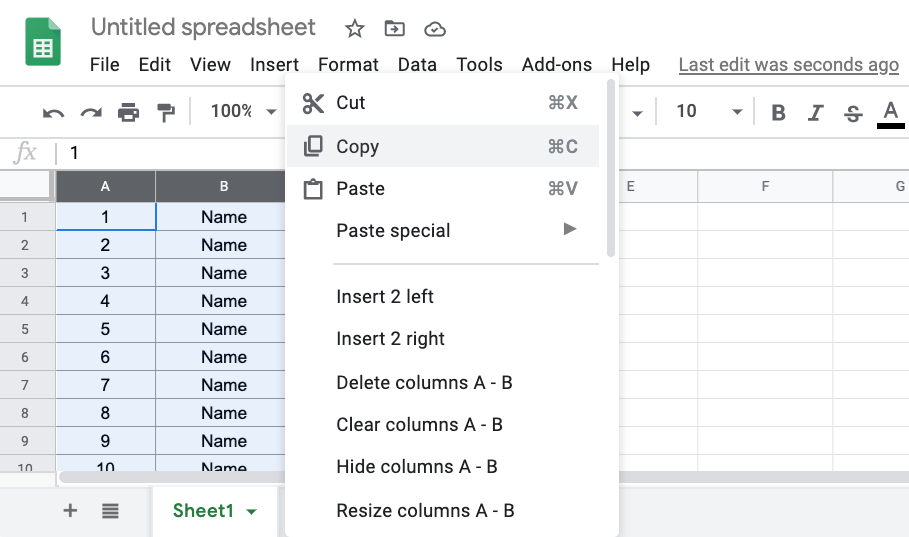
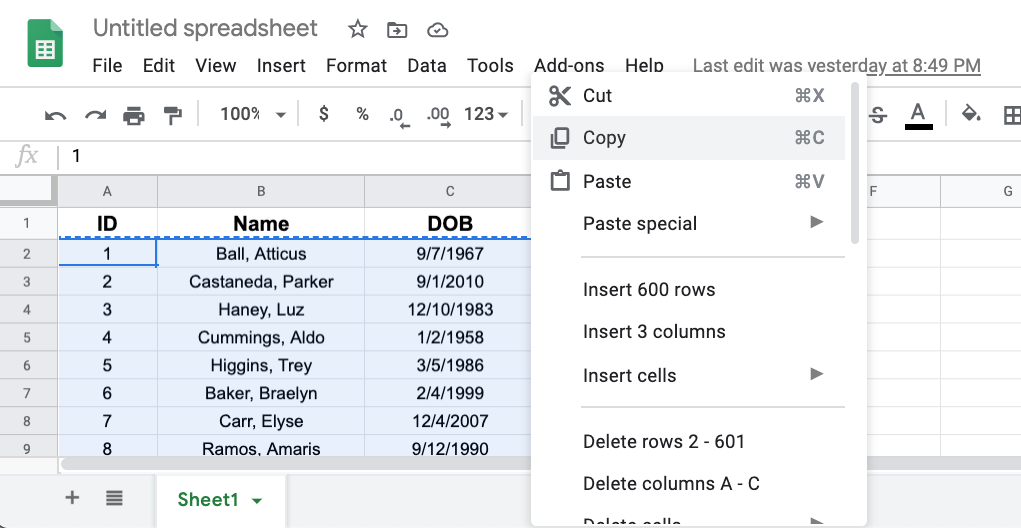
Update image and refactor

diff --git a/src/pages/NewList/index.js b/src/pages/NewList/index.js
@@ -38,7 +38,7 @@ const NewList = ({ firebase, user }) => {
           <p className={classes.titleInfo}>Adding a new list will remove the previous one.</p>
         </div>
         <p className={classes.heading}>Step 1:</p>
-        <p className={classes.info}>Highlight the numbers and names column then copy.</p>
+        <p className={classes.info}>Highlight the IDs, names, and DOB then copy.</p>
         <div className={classes.imgContainer}>
           <img className={classes.img} src='/images/step1.png' alt='coping the numbers column and names column'/>
         </div>
@@ -46,7 +46,7 @@ const NewList = ({ firebase, user }) => {
         <p className={classes.info}>Paste the content below.</p>
         <div className={classes.textAreaContainer}>
           <textarea className={classes.textArea} placeholder="Paste content here." onChange={e => setUserInput(e.target.value)} value={userInput}></textarea>
-          <p className={classes.footer}>Don't modify it after pasting it. It's ok if there is extra space.</p>
+          <p className={classes.footer}>Don't modify it after pasting it.</p>
         </div>
         <p className={classes.heading}>Step 3:</p>
         <p className={classes.info}>Click the button below to add the new list.</p>

diff --git a/src/pages/Login/styles.js b/src/pages/Login/styles.js
@@ -17,7 +17,7 @@ const useStyles = createUseStyles( theme => ({
     textAlign: 'center',
     margin: '0 0 20px 0',
     textTransform: 'uppercase',
-    letterSpacing: theme.letterSpacingHeading,
+    letterSpacing: theme.letterSpacingText,
     color: theme.primaryTextColor,
     fontFamily: theme.primaryFontFamily,
     fontSize: '2em',

diff --git a/src/pages/CheckIn/styles.js b/src/pages/CheckIn/styles.js
@@ -7,7 +7,7 @@ const useStyles = createUseStyles( theme => ({
   pageTitle: {
     margin: '0',
     textTransform: 'uppercase',
-    letterSpacing: theme.letterSpacingHeading,
+    letterSpacing: theme.letterSpacingText,
     color: theme.primaryTextColor,
     fontFamily: theme.primaryFontFamily,
     fontSize: '2em',

diff --git a/src/pages/NewList/styles.js b/src/pages/NewList/styles.js
@@ -7,7 +7,7 @@ const useStyles = createUseStyles( theme => ({
   pageTitle: {
     margin: '0',
     textTransform: 'uppercase',
-    letterSpacing: theme.letterSpacingHeading,
+    letterSpacing: theme.letterSpacingText,
     color: theme.primaryTextColor,
     fontFamily: theme.primaryFontFamily,
     fontSize: '2em',

diff --git a/src/index.js b/src/index.js
@@ -52,7 +52,6 @@ const theme = {
   backgroundColor1: 'white',
   pagePadding: '20px',
   letterSpacingText: '0.05em',
-  letterSpacingHeading: '0.2em',
 }
 
 ReactDOM.render(
